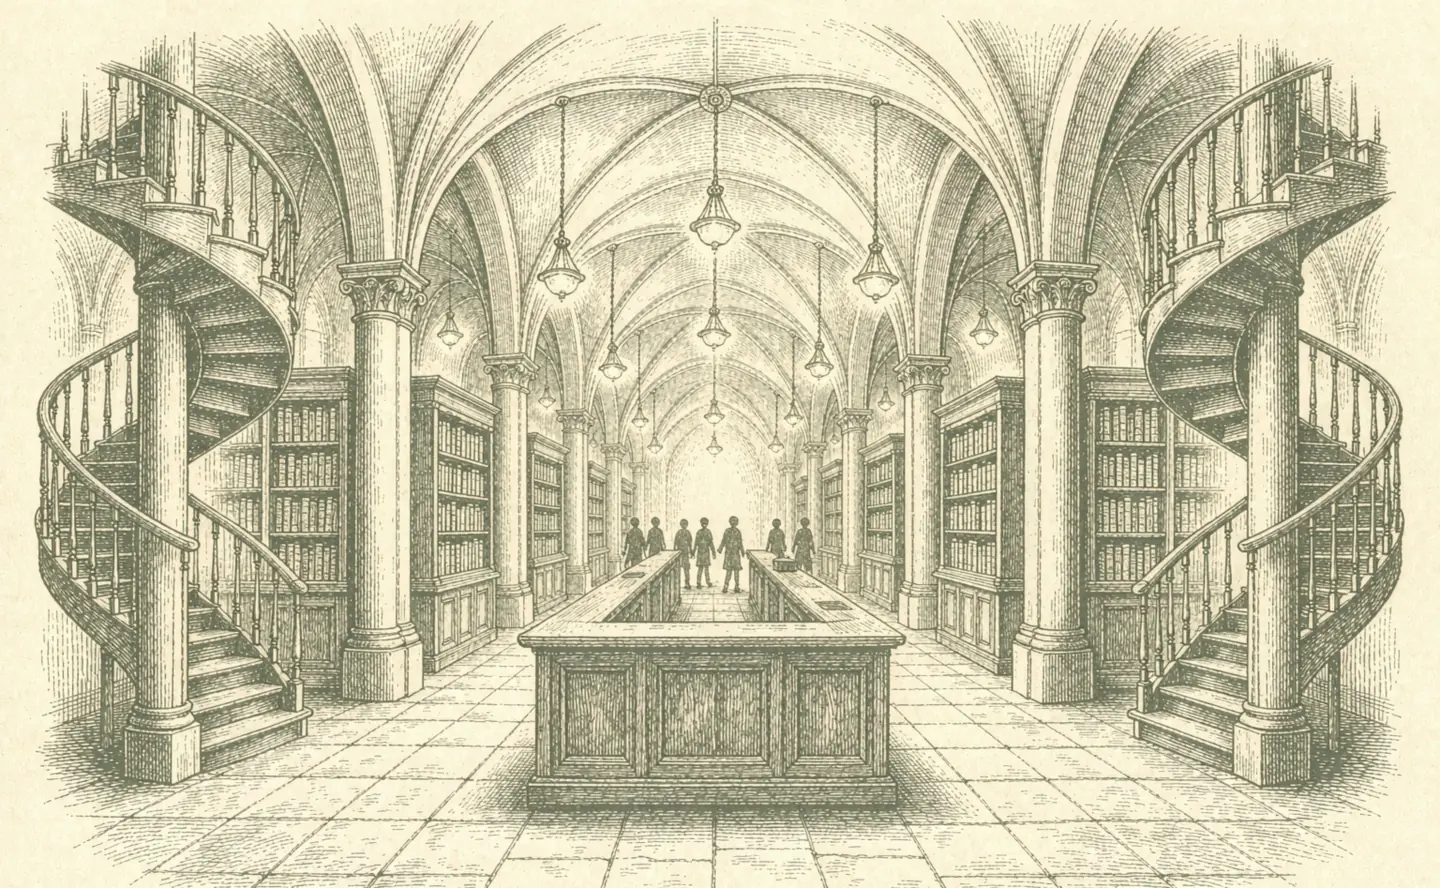
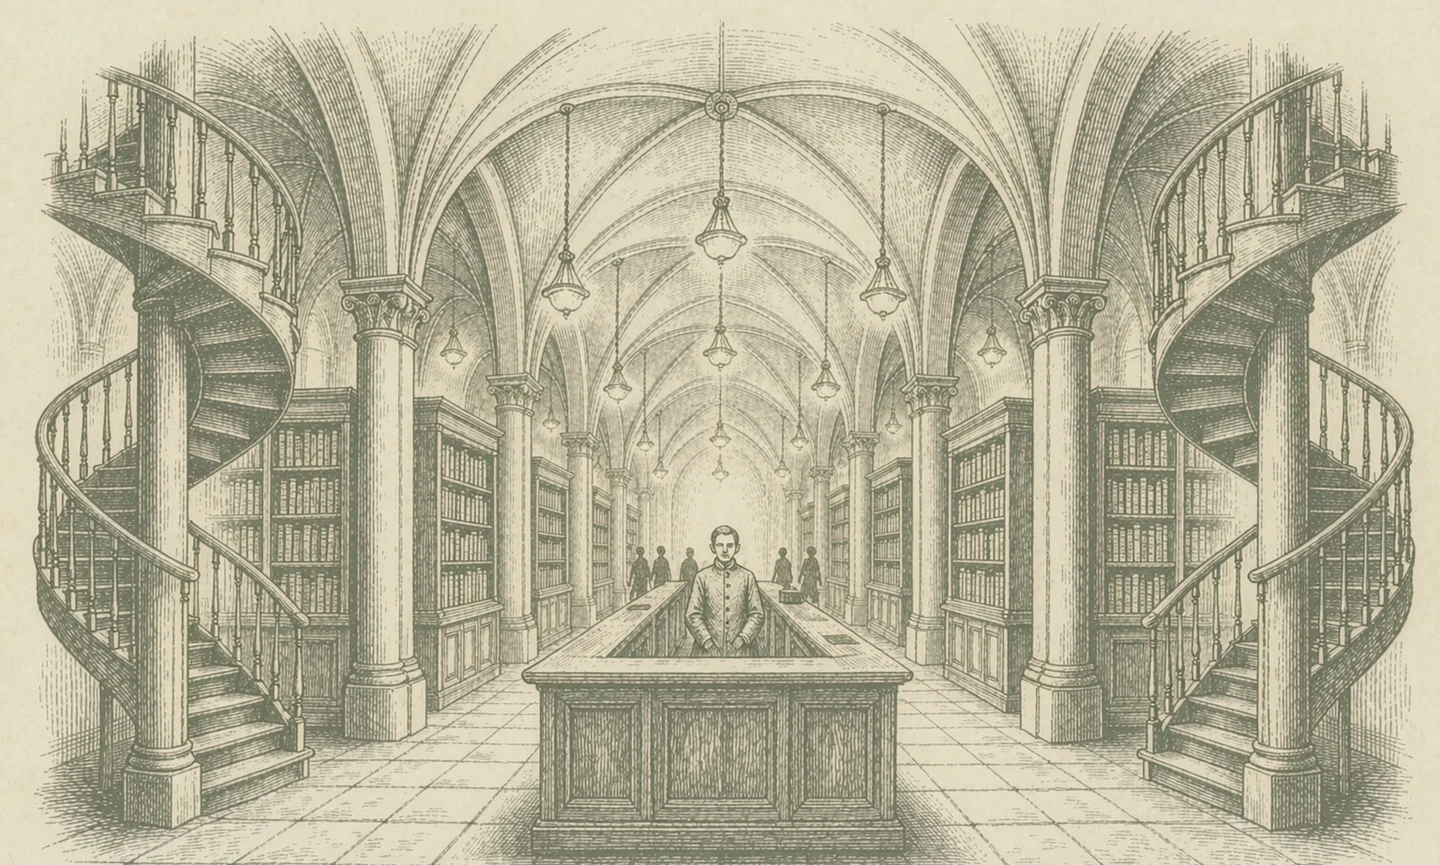
年度修习：14 级台阶改为左右环梯各 7 级（对称）；大厅图补上中央前台接待员（hall-great 换图并升 ?v=）

diff --git a/study-plan.js b/study-plan.js
@@ -32,7 +32,7 @@ window.STUDY_PLAN = {
       gate: "能够把一个模糊需求拆成：目标、上下文、约束、输出格式、验收标准"
     },
     {
-      n: 2, key: "AI调用与工具", x: 12.0, y: 84.0,
+      n: 2, key: "AI调用与工具", x: 7.0, y: 78.0,
       tech: "API；SDK；Function/Tool Calling；Webhook；REST；权限；批处理；Token 成本",
       why: "把「聊天」升级成「让 AI 调用工具做事」",
       level: "能调用至少 1 个模型 API；能理解工具调用链；会看日志和费用",
@@ -40,7 +40,7 @@ window.STUDY_PLAN = {
       gate: "能解释一次 AI 调用从输入到输出发生了什么"
     },
     {
-      n: 3, key: "RAG与知识库", x: 7.0, y: 78.0,
+      n: 3, key: "RAG与知识库", x: 4.5, y: 62.0,
       tech: "Embedding；Chunking；Vector DB；Retrieval；Rerank；Hybrid Search；RAG 评估",
       why: "让 AI 能够基于你的资料回答，适合文档、规范、业务知识库",
       level: "能搭出简单 RAG；知道召回、重排、上下文拼接各自负责什么",
@@ -48,7 +48,7 @@ window.STUDY_PLAN = {
       gate: "能解释「为什么检索到了错误资料、怎么改进」"
     },
     {
-      n: 4, key: "Agent与Workflow", x: 4.5, y: 70.0,
+      n: 4, key: "Agent与Workflow", x: 9.5, y: 48.5,
       tech: "Agent；Planning；Memory；Multi-Agent；Workflow；Human-in-the-loop；Evaluation",
       why: "让 AI 从「回答」走向「执行多步骤任务」",
       level: "能使用 Agent 平台搭工作流；知道什么时候用 Workflow、什么时候用 Agent",
@@ -56,7 +56,7 @@ window.STUDY_PLAN = {
       gate: "能把一个业务任务拆成节点、工具、状态与人工确认点"
     },
     {
-      n: 5, key: "MCP与工具生态", x: 4.5, y: 62.0,
+      n: 5, key: "MCP与工具生态", x: 15.5, y: 40.5,
       tech: "MCP；MCP Client/Server；Resources；Tools；权限；连接外部系统",
       why: "未来把 GIS、CAD、数据库、文件系统暴露给 AI 的重要连接层",
       level: "会配置 MCP；理解 Client/Server；能接入至少 1 个现成 MCP",
@@ -64,7 +64,7 @@ window.STUDY_PLAN = {
       gate: "能说清 AI 为什么需要 MCP 以及它与普通 API 的区别"
     },
     {
-      n: 6, key: "Python与自动化", x: 6.5, y: 55.0,
+      n: 6, key: "Python与自动化", x: 15.5, y: 28.5,
       tech: "Python 语法；函数/类；异常；文件；JSON；requests；pandas/numpy；Excel；SQLite；ArcPy",
       why: "第一门核心开发语言，也是 GIS 自动化与 AI 应用的高性价比语言",
       level: "能读懂 AI 写的 Python；能独立修改、调试；能做脚本自动化",
@@ -72,7 +72,7 @@ window.STUDY_PLAN = {
       gate: "能独立完成一个 500 行以内的实用脚本并调试"
     },
     {
-      n: 7, key: "Web前端", x: 9.5, y: 48.5,
+      n: 7, key: "Web前端", x: 8.0, y: 15.0,
       tech: "HTML；CSS；JavaScript；DOM；Promise；async/await；Fetch；TypeScript；React；Vite；组件化",
       why: "为 Web GIS、后台管理、可视化界面打基础",
       level: "能读懂 React 项目；能让 AI 辅助完成页面、表单、接口联调",
@@ -80,7 +80,7 @@ window.STUDY_PLAN = {
       gate: "能完成列表、表单、路由、API 请求与基本状态管理"
     },
     {
-      n: 8, key: "C#与.NET", x: 13.0, y: 44.0,
+      n: 8, key: "C#与.NET", x: 84.0, y: 86.5,
       tech: "C# 语法；OOP；接口；集合；LINQ；泛型；委托/事件；async/await；Task；.NET；NuGet；Debugger",
       why: "你的第二核心语言，连接 WPF、ArcGIS Pro SDK、AutoCAD .NET",
       level: "能读懂 AI 写的 C#；能自己改、调试和组织中小型项目",
@@ -88,7 +88,7 @@ window.STUDY_PLAN = {
       gate: "能独立修复一个中小型 C# 项目中的 Bug 并理解调用链"
     },
     {
-      n: 9, key: "WPF与MVVM", x: 15.5, y: 40.5,
+      n: 9, key: "WPF与MVVM", x: 93.0, y: 78.0,
       tech: "XAML；布局；Binding；Command；DataGrid；TreeView；UserControl；MVVM；ICommand；ObservableCollection",
       why: "用于构建 Windows 桌面软件与 ArcGIS Pro 相关 UI",
       level: "能做规范的多页 / 多区域桌面界面；知道 UI 与业务逻辑如何分离",
@@ -96,7 +96,7 @@ window.STUDY_PLAN = {
       gate: "能做出可操作界面并把业务逻辑从 View 分离"
     },
     {
-      n: 10, key: "GIS开发基础", x: 17.0, y: 35.0,
+      n: 10, key: "GIS开发基础", x: 95.5, y: 62.0,
       tech: "空间数据模型；SHP/GDB/GeoJSON/Raster；Feature/Layer/Geometry；坐标系；WKID/EPSG；投影；Buffer/Clip/Intersect/Dissolve/Spatial Join",
       why: "把你的编程能力与 GIS 专业能力真正接起来",
       level: "能看懂 GIS 数据结构；能写基础空间处理程序；能定位常见坐标 / 几何问题",
@@ -104,7 +104,7 @@ window.STUDY_PLAN = {
       gate: "能解释一个 GIS 数据从文件到图层再到空间分析的完整链路"
     },
     {
-      n: 11, key: "ArcGIS Pro插件", x: 15.5, y: 28.5,
+      n: 11, key: "ArcGIS Pro插件", x: 90.5, y: 48.5,
       tech: "ArcGIS Pro SDK for .NET；Add-in；DAML；Map/Layer/Feature；Geometry；Geodatabase；EditOperation；Geoprocessing；DockPane；QueuedTask；MVVM",
       why: "这是你的核心专业开发方向之一",
       level: "能独立做简单到中等复杂度 Pro Add-in；能看官方 Sample 并改造成自己的功能",
@@ -112,7 +112,7 @@ window.STUDY_PLAN = {
       gate: "能完成 Ribbon / 按钮 / DockPane / 查询 / 编辑 / 日志 / 部署"
     },
     {
-      n: 12, key: "AutoCAD插件", x: 12.5, y: 21.5,
+      n: 12, key: "AutoCAD插件", x: 84.5, y: 40.5,
       tech: "AutoCAD .NET API；Database；Document；Editor；Transaction；Entity；Layer；Block；Selection；Command；AutoLISP 基础",
       why: "满足 CAD 自动化、质检和插件开发目标",
       level: "能制作实用 CAD 插件；能批量处理图层、文字、块和图形",
@@ -120,7 +120,7 @@ window.STUDY_PLAN = {
       gate: "能做至少 3 个自定义命令并完成批量处理"
     },
     {
-      n: 13, key: "独立GIS桌面软件", x: 8.0, y: 15.0,
+      n: 13, key: "独立GIS桌面软件", x: 84.5, y: 28.5,
       tech: "ArcGIS Maps SDK for .NET；WPF；MVVM；地图/图层/查询/编辑/空间分析；数据层；部署",
       why: "从「插件」升级为真正可独立运行的软件产品",
       level: "能设计软件结构并完成可运行 MVP",
@@ -128,7 +128,7 @@ window.STUDY_PLAN = {
       gate: "能打包运行；界面、业务、GIS 能力分层清晰"
     },
     {
-      n: 14, key: "AI与GIS/CAD整合", x: 8.5, y: 12.0,
+      n: 14, key: "AI与GIS/CAD整合", x: 92.0, y: 15.0,
       tech: "LLM API；Tool Calling；MCP；Agent；GIS/CAD Tools；Evaluation；日志；成本；权限；Fallback",
       why: "把前面的全部能力汇聚成你的最终竞争力",
       level: "AI 可以调用你的 GIS/CAD 工具；你能控制、验证、审计 AI 执行结果",

diff --git a/index.html b/index.html
@@ -1328,7 +1328,7 @@ img{display:block}
    ⚠ 它是**亮场景**：全站其余部分（除本页外）是深色玻璃，这里故意反过来 ——
       "推门走进光里"的反差就是这一格的意义，别把它压暗。 */
 .kn-shelf[data-shelf="rule"] .ks-far{
-  background-image:url(assets/hall-great.webp?v=20260921a);background-position:center 44%}
+  background-image:url(assets/hall-great.webp?v=20260921b);background-position:center 44%}
 .kn-shelf[data-shelf="rule"] .ks-card{margin-top:auto;margin-bottom:0}
 
 /* ---------- 主题 tech：冷静 · 客观 · 缜密（蓝）---------- */
@@ -3079,7 +3079,7 @@ footer .ft-legal b{color:var(--muted);font-weight:500}
            ⚠ 本层只在 `[data-shelf="rule"]` 显示（见 CSS），其余三个分类仍走 `.ks-card` 列表。 -->
       <div class="ks-study" id="ksStudy">
         <div class="kst-shot">
-          <img class="kst-img" src="assets/hall-great.webp?v=20260921a" alt="" decoding="async">
+          <img class="kst-img" src="assets/hall-great.webp?v=20260921b" alt="" decoding="async">
           <div class="kst-steps" id="kstSteps"></div>
         </div>
         <button class="kst-plaque" id="kstPlaque" type="button">

diff --git a/knowledge.js b/knowledge.js
@@ -1033,7 +1033,7 @@ function warmGateImages() {
     "assets/knowledge-bg.jpg?v=20260920a",
     "assets/knight-l.webp?v=20260921f",
     "assets/knight-r.webp?v=20260921f",
-    "assets/hall-great.webp?v=20260921a",
+    "assets/hall-great.webp?v=20260921b",
     "assets/hall-shelf.webp?v=20260921a"
   ];
   list.forEach(function (u) {
